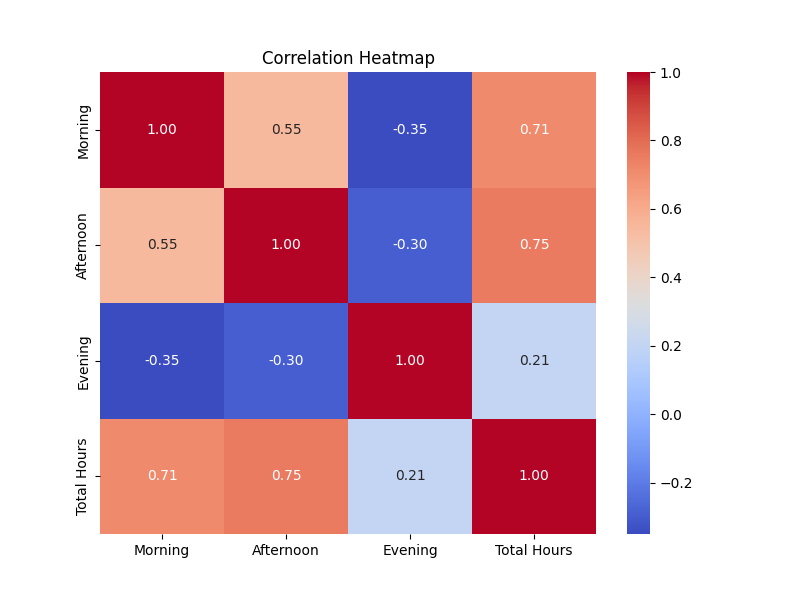
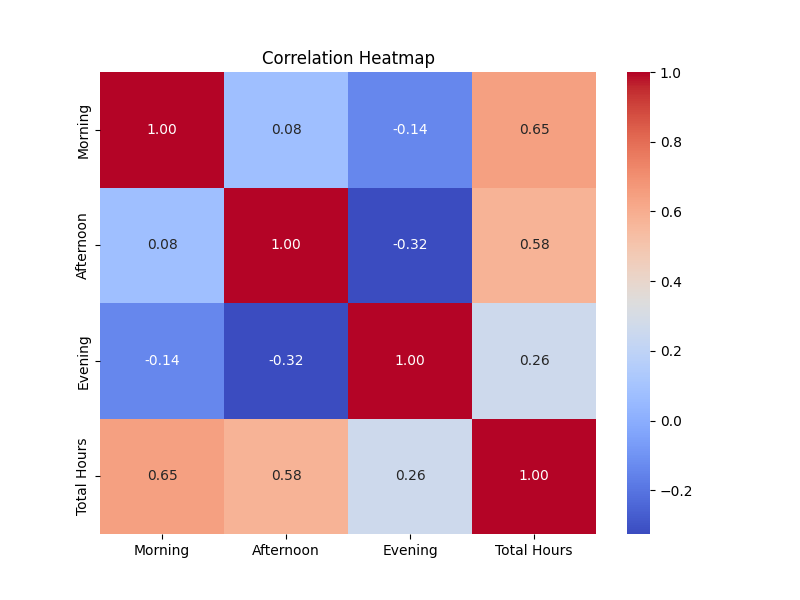
更新自动化分析代码-acc

diff --git a/py/acc_to_report.py b/py/acc_to_report.py
@@ -1,0 +1,73 @@
+import pandas as pd
+import re
+from scipy.stats import beta
+
+
+class AccTableAnalyzer:
+    def __init__(self, filepath):
+        self.filepath = filepath
+        self.df_list = []
+
+    def read_md_tables(self):
+        """读取文件中的表格，并存入self.df_list"""
+        with open(self.filepath, 'r', encoding='utf-8') as file:
+            content = file.read()
+
+        # 找到所有<div class="acc-table"> ... </div> 之间的内容
+        tables = re.findall(r'<div class="acc-table">([\s\S]*?)</div>', content)
+
+        # 依次将表格转换为 DataFrame
+        for table in tables:
+            # 处理 markdown 表格为二维列表
+            table = table.strip()
+            rows = table.split('\n')[2:]  # 去除前两行表头定义
+            # print(table)
+            columns = table.split('\n')[0].split('|')[1:-1]
+            print(columns)
+            data = [re.split(r'\s*\|\s*', row.strip())[1:-1] for row in rows]
+            df = pd.DataFrame(data[0:], columns=[column.strip() for column in columns])
+            # print(df)
+            self.df_list.append(df)
+
+    def estimate_mastery(self, alpha_prior=1, beta_prior=1, start_row=4):
+        """使用Beta分布估计各个板块的掌握程度"""
+        mastery_results = []
+
+        for df in self.df_list:
+            section_mastery = {}
+            for column in df.columns[start_row-1:]:  # 从第start_row=4列开始是各个板块的掌握率
+                correct_total = df[column].str.extract(r'(\d+)/(\d+)', expand=True)
+                correct_total = correct_total.dropna()  # 去除缺失数据，即为'-'的情况
+                correct_total = correct_total.astype(float)
+
+                if correct_total.empty:
+                    section_mastery[column] = None  # 如果无数据，跳过
+                    continue
+
+                # 累加正确数和总数
+                correct_sum = correct_total[0].sum()
+                total_sum = correct_total[1].sum()
+
+                # 更新贝叶斯后验分布的参数
+                alpha_post = alpha_prior + correct_sum
+                beta_post = beta_prior + (total_sum - correct_sum)
+
+                # 计算Beta分布的期望值，作为掌握程度的估计
+                estimated_mastery = alpha_post / (alpha_post + beta_post)
+                section_mastery[column] = estimated_mastery
+
+            mastery_results.append(section_mastery)
+
+        return mastery_results
+
+
+# 使用示例
+analyzer = AccTableAnalyzer('../data/正确率.md')
+analyzer.read_md_tables()
+mastery_results = analyzer.estimate_mastery()
+
+# 输出掌握程度的估计结果
+for i, mastery in enumerate(mastery_results):
+    print(f"Table {i + 1} mastery estimates:")
+    for section, estimate in mastery.items():
+        print(f"{section}: {estimate:.2%}" if estimate else f"{section}: No data")

diff --git a/py/cal_learning_time.py b/py/cal_learning_time.py
@@ -4,9 +4,9 @@ import pickle
 
 
 class StudyTimeProcessor:
-    def __init__(self, path, current_year):
+    def __init__(self, path, target_path, current_year):
         self.path = path
-        self.target_path = '../data/学习时长_export.md'  # 等该class稳定了，后面再改为self.path
+        self.target_path = target_path
         self.df_list = []
         self.current_year = current_year
 
@@ -62,6 +62,10 @@ class StudyTimeProcessor:
         table_str = match.group(1)
         df = self._parse_table(table_str)  # 解析表格
         new_df = self._convert_df(df)  # 计算上下晚和更新总时长
+        # 将日期时间列转换为只有日期的字符串
+        new_df['日期'] = new_df['日期'].dt.date.astype(str)
+        # print(new_df)
+        # print(new_df.describe())
         self.df_list.append(new_df)  # 保存处理后的DataFrame
         table_md = new_df.to_markdown(index=False)  # 转为markdown格式
         return f"<div class=\"time-table\">\n\n{table_md}\n\n</div>"
@@ -81,7 +85,7 @@ class StudyTimeProcessor:
 
 
 if __name__ == '__main__':
-    processor = StudyTimeProcessor('../data/学习时长.md', 2024)
+    processor = StudyTimeProcessor('../data/学习时长.md', "../data/学习时长_export.md", 2024)
     processor.process()
     with open('../data/pkl/study_time_df_list.pkl', 'wb') as f:
         pickle.dump(processor.df_list, f)

diff --git a/py/learning_time_to_report.py b/py/learning_time_to_report.py
@@ -111,8 +111,6 @@ class StudyTimeAnalyzer:
         plt.title("Correlation Heatmap")
         plt.savefig("../data/pic/correlation_heatmap.png")  # 保存热力图
 
-        return corr_matrix
-
 
 if __name__ == '__main__':
     with open('../data/pkl/study_time_df_list.pkl', 'rb') as f:
@@ -120,7 +118,9 @@ if __name__ == '__main__':
 
     merger = DataFrameMerger(df_list)
     merger.merge_dfs()
-    print(merger.df_all)
+    # print(merger.df_all)
+    print("数据描述:")
+    print(merger.df_all.describe())
 
     with open('../data/pkl/study_time_df_all.pkl', 'wb') as f:
         pickle.dump(merger.df_all, f)
@@ -131,4 +131,4 @@ if __name__ == '__main__':
     analyzer = StudyTimeAnalyzer(df_all)
     analyzer.plot_total_time()  # 绘制全过程的总时长曲线
     analyzer.plot_monthly_analysis()  # 绘制每个月的学习时长分析图
-    corr_matrix = analyzer.analyze_corr()  # 进行相关性分析
+    analyzer.analyze_corr()  # 进行相关性分析

diff --git a/data/学习时长_export.md b/data/学习时长_export.md
@@ -1,36 +1,61 @@
 # 1. 数学
 
+
 <div class="time-table">
 
-| 日期                  | 时间段                                  |    上 |    下 |    晚 |   总时长(h) | 备注              |
-|:--------------------|:-------------------------------------|-----:|-----:|-----:|---------:|:----------------|
-| 2024-09-07 00:00:00 | 18:15-20:30                          | 0    | 0    | 2.25 |     2.25 |                 |
-| 2024-09-08 00:00:00 | 9:30-11:30, 14:20-17:00, 17:40-19:00 | 2    | 2.67 | 1.33 |     6    |                 |
-| 2024-09-09 00:00:00 | 16:15-17:25, 18:00-20:25             | 0    | 1.17 | 2.42 |     3.58 |                 |
-| 2024-09-10 00:00:00 | 18:00-20:20                          | 0    | 0    | 2.33 |     2.33 |                 |
-| 2024-09-11 00:00:00 | 9:45-11:15, 18:50-21:20              | 1.5  | 0    | 2.5  |     4    |                 |
-| 2024-09-12 00:00:00 | 15:00-17:10, 17:40-20:15             | 0    | 2.17 | 2.58 |     4.75 |                 |
-| 2024-09-13 00:00:00 | 13:45-15:25                          | 0    | 1.67 | 0    |     1.67 |                 |
-| 2024-09-14 00:00:00 | 16:15-17:00, 17:45-18:40             | 0    | 0.75 | 0.92 |     1.67 |                 |
-| 2024-09-15 00:00:00 | 8:25-11:25, 14:30-17:00, 17:30-20:00 | 3    | 2.5  | 2.5  |     8    |                 |
-| 2024-09-16 00:00:00 | 8:00-11:15, 14:30-17:00, 17:30-18:30 | 3.25 | 2.5  | 1    |     6.75 |                 |
-| 2024-09-17 00:00:00 | 9:45-11:00, 18:10-21:05              | 1.25 | 0    | 2.92 |     4.17 |                 |
-| 2024-09-18 00:00:00 | 7:40-11:30                           | 3.83 | 0    | 0    |     3.83 |                 |
-| 2024-09-19 00:00:00 | 17:30-21:40                          | 0    | 0    | 4.17 |     4.17 |                 |
-| 2024-09-20 00:00:00 | 9:45-11:15, 14:40-17:10              | 1.5  | 2.5  | 0    |     4    |                 |
-| 2024-09-21 00:00:00 | 8:30-11:15, 13:55-17:15              | 2.75 | 3.33 | 0    |     6.08 | 汤家凤高数一轮, 62.25h |
+| 日期         | 时间段                                  |    上 |    下 |    晚 |   总时长(h) | 备注                |
+|:-----------|:-------------------------------------|-----:|-----:|-----:|---------:|:------------------|
+| 2024-09-07 | 18:15-20:30                          | 0    | 0    | 2.25 |     2.25 |                   |
+| 2024-09-08 | 9:30-11:30, 14:20-17:00, 17:40-19:00 | 2    | 2.67 | 1.33 |     6    |                   |
+| 2024-09-09 | 16:15-17:25, 18:00-20:25             | 0    | 1.17 | 2.42 |     3.58 |                   |
+| 2024-09-10 | 18:00-20:20                          | 0    | 0    | 2.33 |     2.33 |                   |
+| 2024-09-11 | 9:45-11:15, 18:50-21:20              | 1.5  | 0    | 2.5  |     4    |                   |
+| 2024-09-12 | 15:00-17:10, 17:40-20:15             | 0    | 2.17 | 2.58 |     4.75 |                   |
+| 2024-09-13 | 13:45-15:25                          | 0    | 1.67 | 0    |     1.67 |                   |
+| 2024-09-14 | 16:15-17:00, 17:45-18:40             | 0    | 0.75 | 0.92 |     1.67 |                   |
+| 2024-09-15 | 8:25-11:25, 14:30-17:00, 17:30-20:00 | 3    | 2.5  | 2.5  |     8    |                   |
+| 2024-09-16 | 8:00-11:15, 14:30-17:00, 17:30-18:30 | 3.25 | 2.5  | 1    |     6.75 |                   |
+| 2024-09-17 | 9:45-11:00, 18:10-21:05              | 1.25 | 0    | 2.92 |     4.17 |                   |
+| 2024-09-18 | 7:40-11:30                           | 3.83 | 0    | 0    |     3.83 |                   |
+| 2024-09-19 | 17:30-21:40                          | 0    | 0    | 4.17 |     4.17 |                   |
+| 2024-09-20 | 9:45-11:15, 14:40-17:10              | 1.5  | 2.5  | 0    |     4    |                   |
+| 2024-09-21 | 8:30-11:15, 13:55-17:15              | 2.75 | 3.33 | 0    |     6.08 | 汤家凤高数一轮, 63.25h   |
+| 2024-09-21 | 18:00-19:15                          | 0    | 0    | 1.25 |     1.25 |                   |
+| 2024-09-22 | 8:30-11:00, 14:00-17:20              | 2.5  | 3.33 | 0    |     5.83 |                   |
+| 2024-09-23 | 16:15-17:00, 17:30-19:30             | 0    | 0.75 | 2    |     2.75 |                   |
+| 2024-09-24 | 18:50-20:20                          | 0    | 0    | 1.5  |     1.5  |                   |
+| 2024-09-25 | 9:00-11:30, 18:20-20:35              | 2.5  | 0    | 2.25 |     4.75 | 复习全书基础篇线代一轮15.08h |
+| 2024-09-25 | 20:35-21:05                          | 0    | 0    | 0.5  |     0.5  |                   |
+| 2024-09-26 | 14:00-17:00                          | 0    | 3    | 0    |     3    |                   |
+| 2024-09-27 | 10:05-11:35, 14:00-16:00             | 1.5  | 2    | 0    |     3.5  | 复习全书基础篇概率一轮6h     |
+| 2024-09-28 | 13:30-17:15                          | 0    | 3.75 | 0    |     3.75 |                   |
+| 2024-09-29 | 9:50-11:20                           | 1.5  | 0    | 0    |     1.5  | 复习全书线性代数进阶题5.25h  |
+| 2024-09-29 | 14:30-17:00, 17:45-19:15             | 0    | 2.5  | 1.5  |     4    |                   |
+| 2024-09-30 | 16:15-16:45                          | 0    | 0.5  | 0    |     0.5  | 复习全书线性代数进阶题4.5h   |
+| 2024-10-01 | 9:15-11:00, 17:00-18:00              | 1.75 | 0.5  | 0.5  |     2.75 |                   |
+| 2024-10-03 | 9:00-11:30                           | 2.5  | 0    | 0    |     2.5  |                   |
+| 2024-10-03 | 16:00-17:00                          | 0    | 1    | 0    |     1    |                   |
+| 2024-10-04 | 8:00-11:15, 14:00-14:45              | 3.25 | 0.75 | 0    |     4    |                   |
+| 2024-10-04 | 14:45-15:15, 19:10-19:25             | 0    | 0.5  | 0.25 |     0.75 |                   |
+| 2024-10-05 | 8:45-10:45, 13:50-15:50              | 2    | 2    | 0    |     4    |                   |
+| 2024-10-05 | 15:50-17:05                          | 0    | 1.25 | 0    |     1.25 |                   |
+| 2024-10-06 | 9:30-12:00, 14:45-15:15              | 2.5  | 0.5  | 0    |     3    |                   |
+| 2024-10-07 | 10:00-10:30, 17:45-19:45             | 0.5  | 0    | 2    |     2.5  |                   |
+| 2024-10-08 | 18:30-21:15                          | 0    | 0    | 2.75 |     2.75 |                   |
+| 2024-10-09 | 8:00-10:30                           | 2.5  | 0    | 0    |     2.5  |                   |
+| 2024-10-09 | 10:30-11:30, 18:00-20:30             | 1    | 0    | 2.5  |     3.5  |                   |
+| 2024-10-10 | 15:30-17:00                          | 0    | 1.5  | 0    |     1.5  |                   |
+| 2024-10-11 | 9:45-11:45, 13:50-17:00, 17:30-18:50 | 2    | 3.17 | 1.33 |     6.5  |                   |
+| 2024-10-12 | 15:45-17:15                          | 0    | 1.5  | 0    |     1.5  |                   |
+| 2024-10-13 | 7:45-9:00, 19:10-19:40               | 1.25 | 0    | 0.5  |     1.75 |                   |
+| 2024-10-13 | 9:00-11:30, 14:00-17:00, 17:40-19:10 | 2.5  | 3    | 1.5  |     7    |                   |
+| 2024-10-14 | 8:45-10:45                           | 2    | 0    | 0    |     2    |                   |
+| 2024-10-14 | 10:45-11:15, 15:45-17:15             | 0.5  | 1.5  | 0    |     2    |                   |
+| 2024-10-16 | 9:00-11:15, 20:15-21:00              | 2.25 | 0    | 0.75 |     3    |                   |
+| 2024-10-16 | 21:00-21:45                          | 0    | 0    | 0.75 |     0.75 |                   |
+| 2024-10-17 | 8:20-9:05, 13:45-17:15, 17:45-19:15  | 0.75 | 3.5  | 1.5  |     5.75 |                   |
+| 2024-10-19 | 12:00-17:00, 17:45-19:30             | 0    | 5    | 1.75 |     6.75 |                   |
 
 </div>
 
 
-
-# 2. 测试表格
-
-<div class="time-table">
-
-| 日期                  | 时间段                                  |   上 |    下 |    晚 |   总时长(h) | 备注   |
-|:--------------------|:-------------------------------------|----:|-----:|-----:|---------:|:-----|
-| 2024-09-07 00:00:00 | 18:15-21:00                          |   0 | 0    | 2.75 |     2.75 |      |
-| 2024-09-08 00:00:00 | 9:30-11:30, 14:20-17:00, 17:40-19:00 |   2 | 2.67 | 1.33 |     6    |      |
-
-</div>

diff --git a/data/学习时长.md b/data/学习时长.md
@@ -1,5 +1,6 @@
 # 1. 数学
 
+
 <div class="time-table">
 
 | 日期 | 时间段 | 备注 |
@@ -18,19 +19,43 @@
 | 9.18 | 7:40-11:30 | |
 | 9.19 | 17:30-21:40 | |
 | 9.20 | 9:45-11:15, 14:40-17:10 | |
-| 9.21 | 8:30-11:15, 13:55-17:15| 汤家凤高数一轮, 62.25h |
+| 9.21 | 8:30-11:15, 13:55-17:15| 汤家凤高数一轮, 63.25h |
+| 9.21 | 18:00-19:15 | |
+| 9.22 | 8:30-11:00, 14:00-17:20 | |
+| 9.23 | 16:15-17:00, 17:30-19:30 | |
+| 9.24 | 18:50-20:20 | |
+| 9.25 | 9:00-11:30, 18:20-20:35| 复习全书基础篇线代一轮15.08h |
+| 9.25 | 20:35-21:05 | |
+| 9.26 | 14:00-17:00 | |
+| 9.27 | 10:05-11:35, 14:00-16:00 | 复习全书基础篇概率一轮6h |
+| 9.28 | 13:30-17:15 | |
+| 9.29 | 9:50-11:20 | 复习全书线性代数进阶题5.25h|
+| 9.29 | 14:30-17:00, 17:45-19:15 | |
+| 9.30 | 16:15-16:45| 复习全书线性代数进阶题4.5h |
+| 10.1 | 9:15-11:00, 17:00-18:00 | |
+| 10.3 | 9:00-11:30 | |
+| 10.3 | 16:00-17:00 | |
+| 10.4 | 8:00-11:15, 14:00-14:45 | |
+| 10.4 | 14:45-15:15, 19:10-19:25 | |
+| 10.5 | 8:45-10:45, 13:50-15:50 | |
+| 10.5 | 15:50-17:05| |
+| 10.6 | 9:30-12:00, 14:45-15:15 | |
+| 10.7 | 10:00-10:30, 17:45-19:45| |
+| 10.8 | 18:30-21:15| |
+| 10.9 | 8:00-10:30 | |
+| 10.9 | 10:30-11:30, 18:00-20:30 | |
+| 10.10 | 15:30-17:00 | |
+| 10.11 | 9:45-11:45, 13:50-17:00, 17:30-18:50 | |
+| 10.12 | 15:45-17:15 | |
+| 10.13 | 7:45-9:00, 19:10-19:40| |
+| 10.13 | 9:00-11:30, 14:00-17:00, 17:40-19:10 | |
+| 10.14 | 8:45-10:45 | |
+| 10.14 | 10:45-11:15, 15:45-17:15 | |
+| 10.16 | 9:00-11:15, 20:15-21:00 | |
+| 10.16 | 21:00-21:45 | |
+| 10.17 | 8:20-9:05, 13:45-17:15, 17:45-19:15 | |
+| 10.19 | 12:00-17:00, 17:45-19:30 | |
 
 </div>
 
 
-
-# 2. 测试表格
-
-<div class="time-table">
-
-| 日期 | 时间段 | 备注 |
-| --- | --- | --- |
-| 9.7 | 18:15-21:00 | |
-| 9.8 | 9:30-11:30, 14:20-17:00, 17:40-19:00 | |
-
-</div>

diff --git a/data/正确率.md b/data/正确率.md
@@ -1,0 +1,18 @@
+# 1. 数学
+
+## 1.1 高等数学
+
+<div class="acc-table">
+
+| 书名 | 次数 | 时间 | 全书 | 极限与连续 | 一元微分 | 多元微分 | 微分方程 | 一元积分 | 多元积分 | 曲线曲面积分 | 无穷级数 | 空间解析几何 |
+| --- | --- | --- | --- | --- | --- | --- | --- | --- | --- | --- | --- | --- |
+| 汤家凤高数辅导讲义 | 一刷 | 9.7-9.21 | 435/579=75.1% | 70/79=88.6% | 104/136=76.5% | 44/51=86.3% | 35/47=74.5% | 67/101=66.3% | 37/52=71.2% | 33/40=82.5% | 31/59=52.5% | 14/14=100% |
+| 汤家凤高数基础篇 | 一刷 | 9.7-9.18 | 205/228=89.9% | 48/59=81.4% | 42/48=87.5% | 29/29=100% | 23/24=95.8% | 51/56=91.1% | 12/12=100% | - | - | - |
+
+</div>
+
+
+## 1.2 线性代数
+
+## 1.3 概率论与数理统计
+
